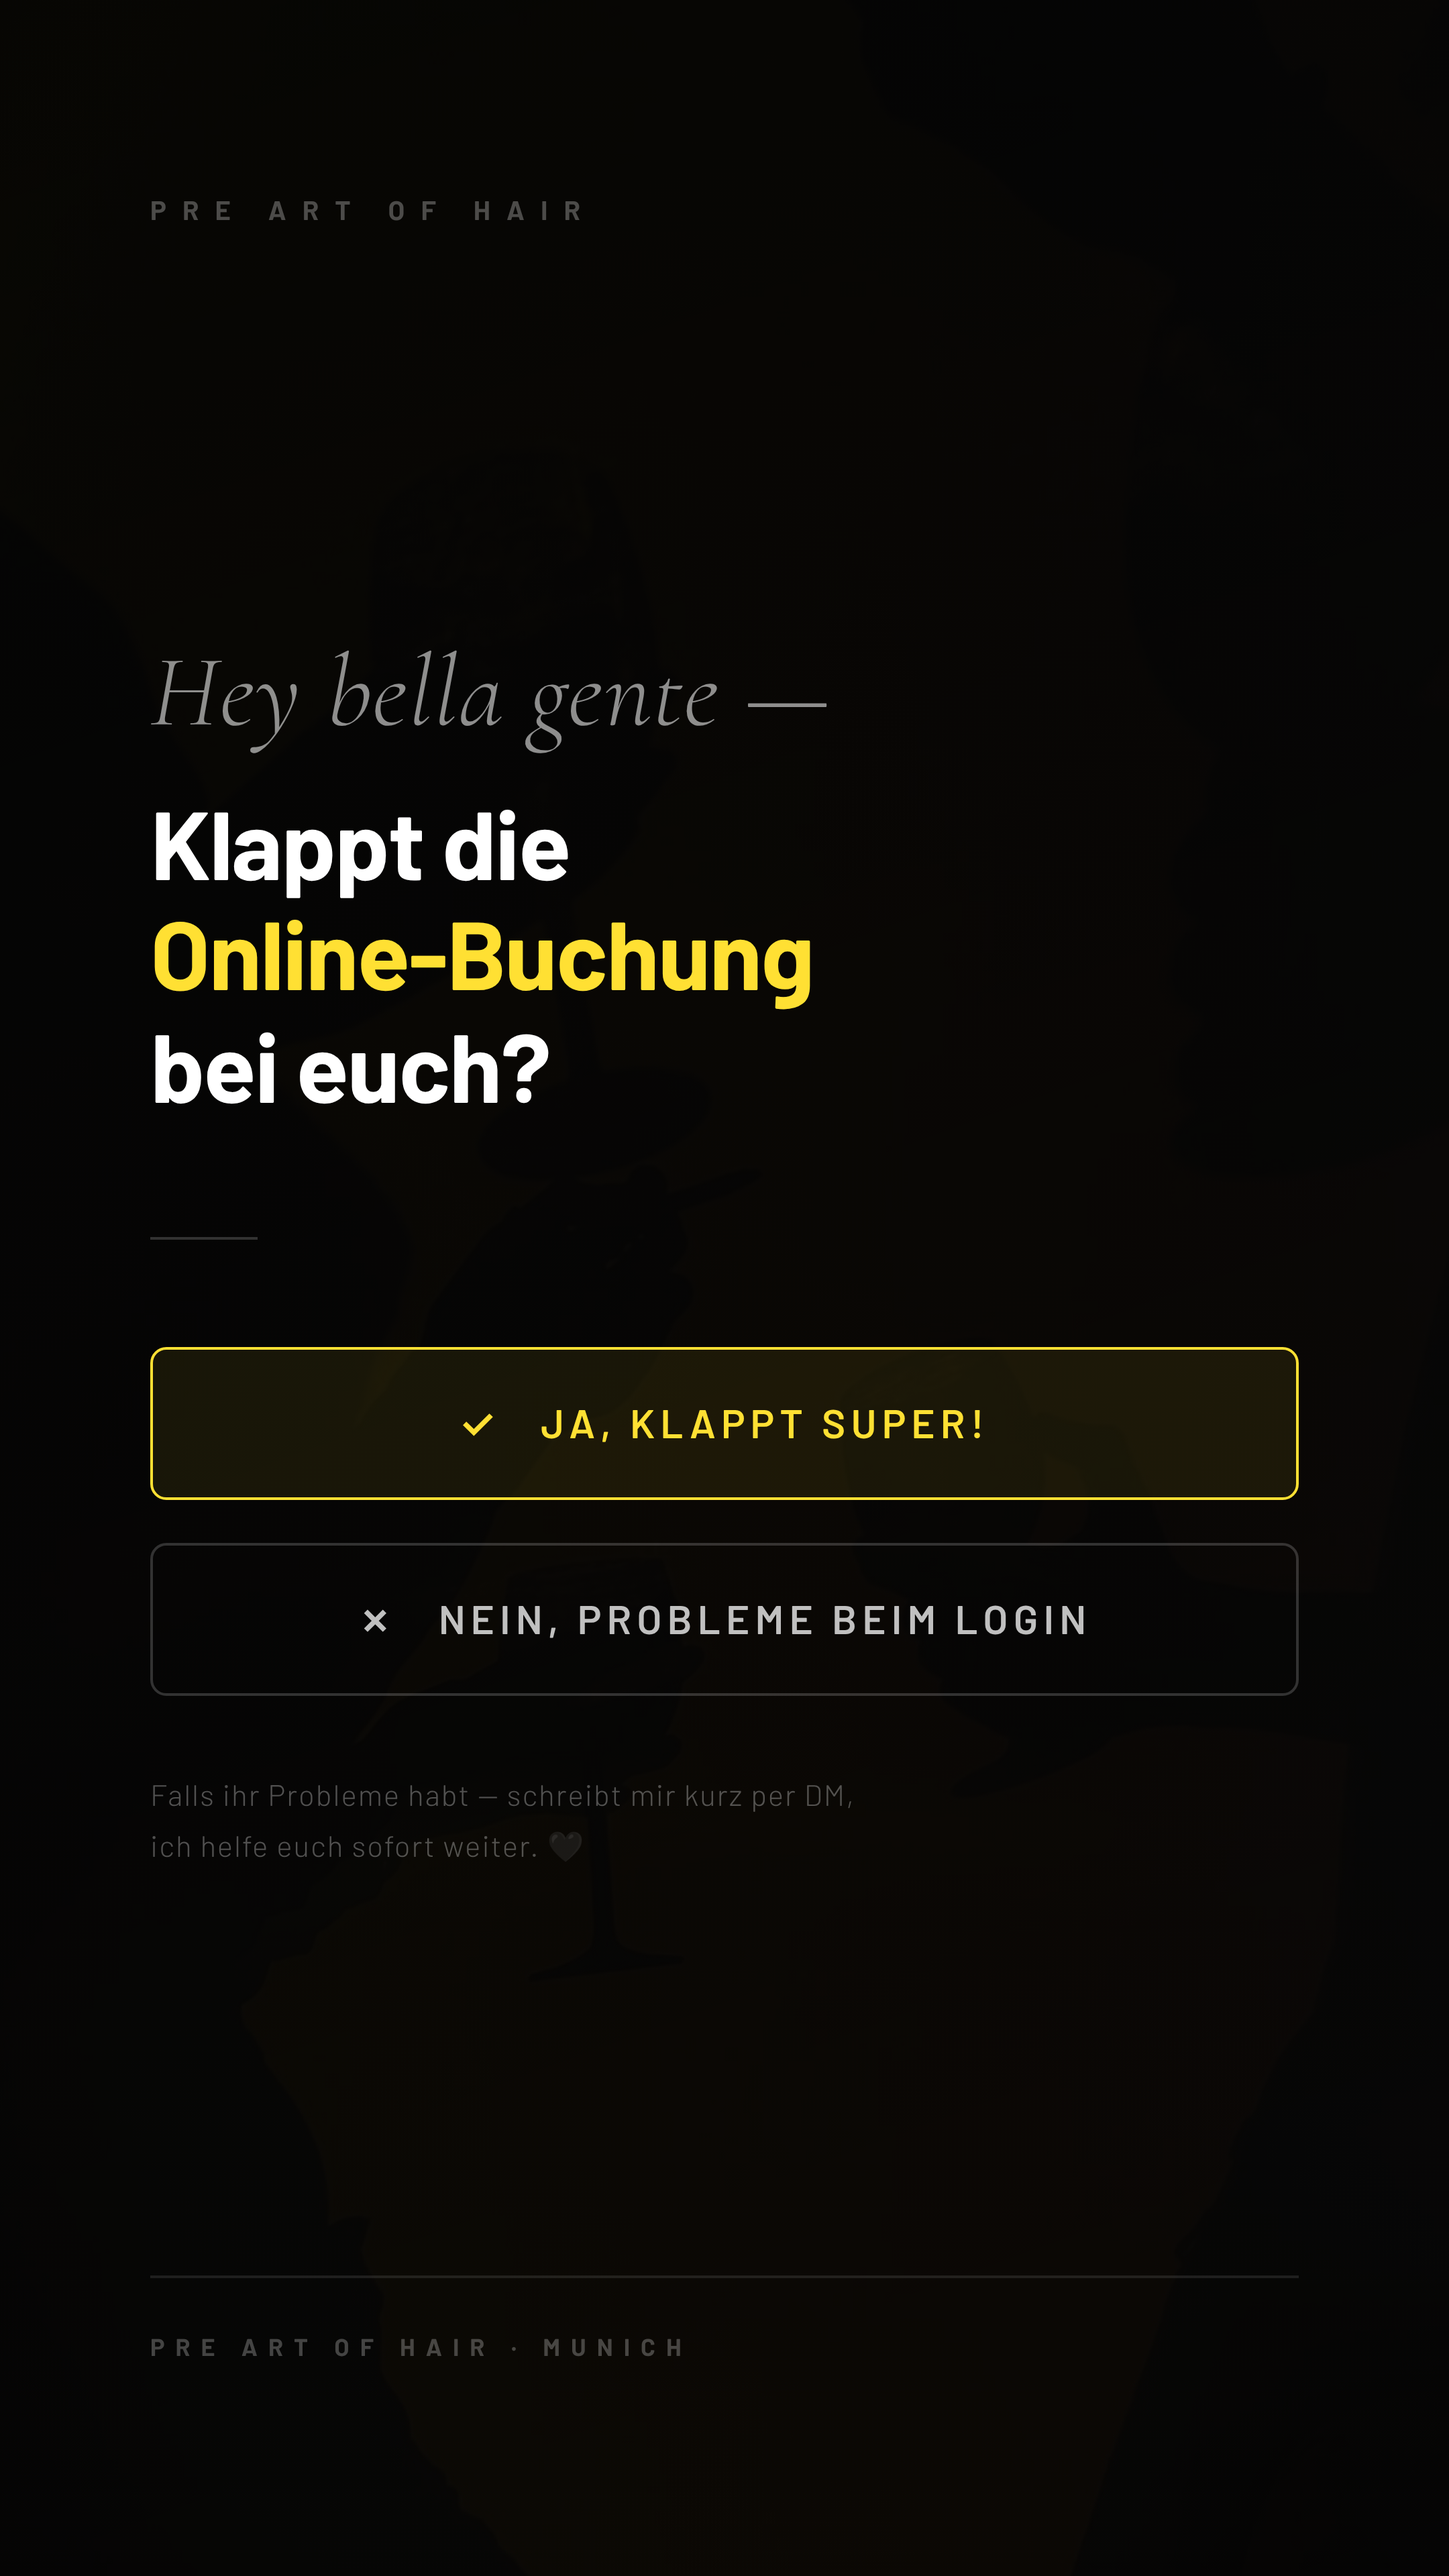
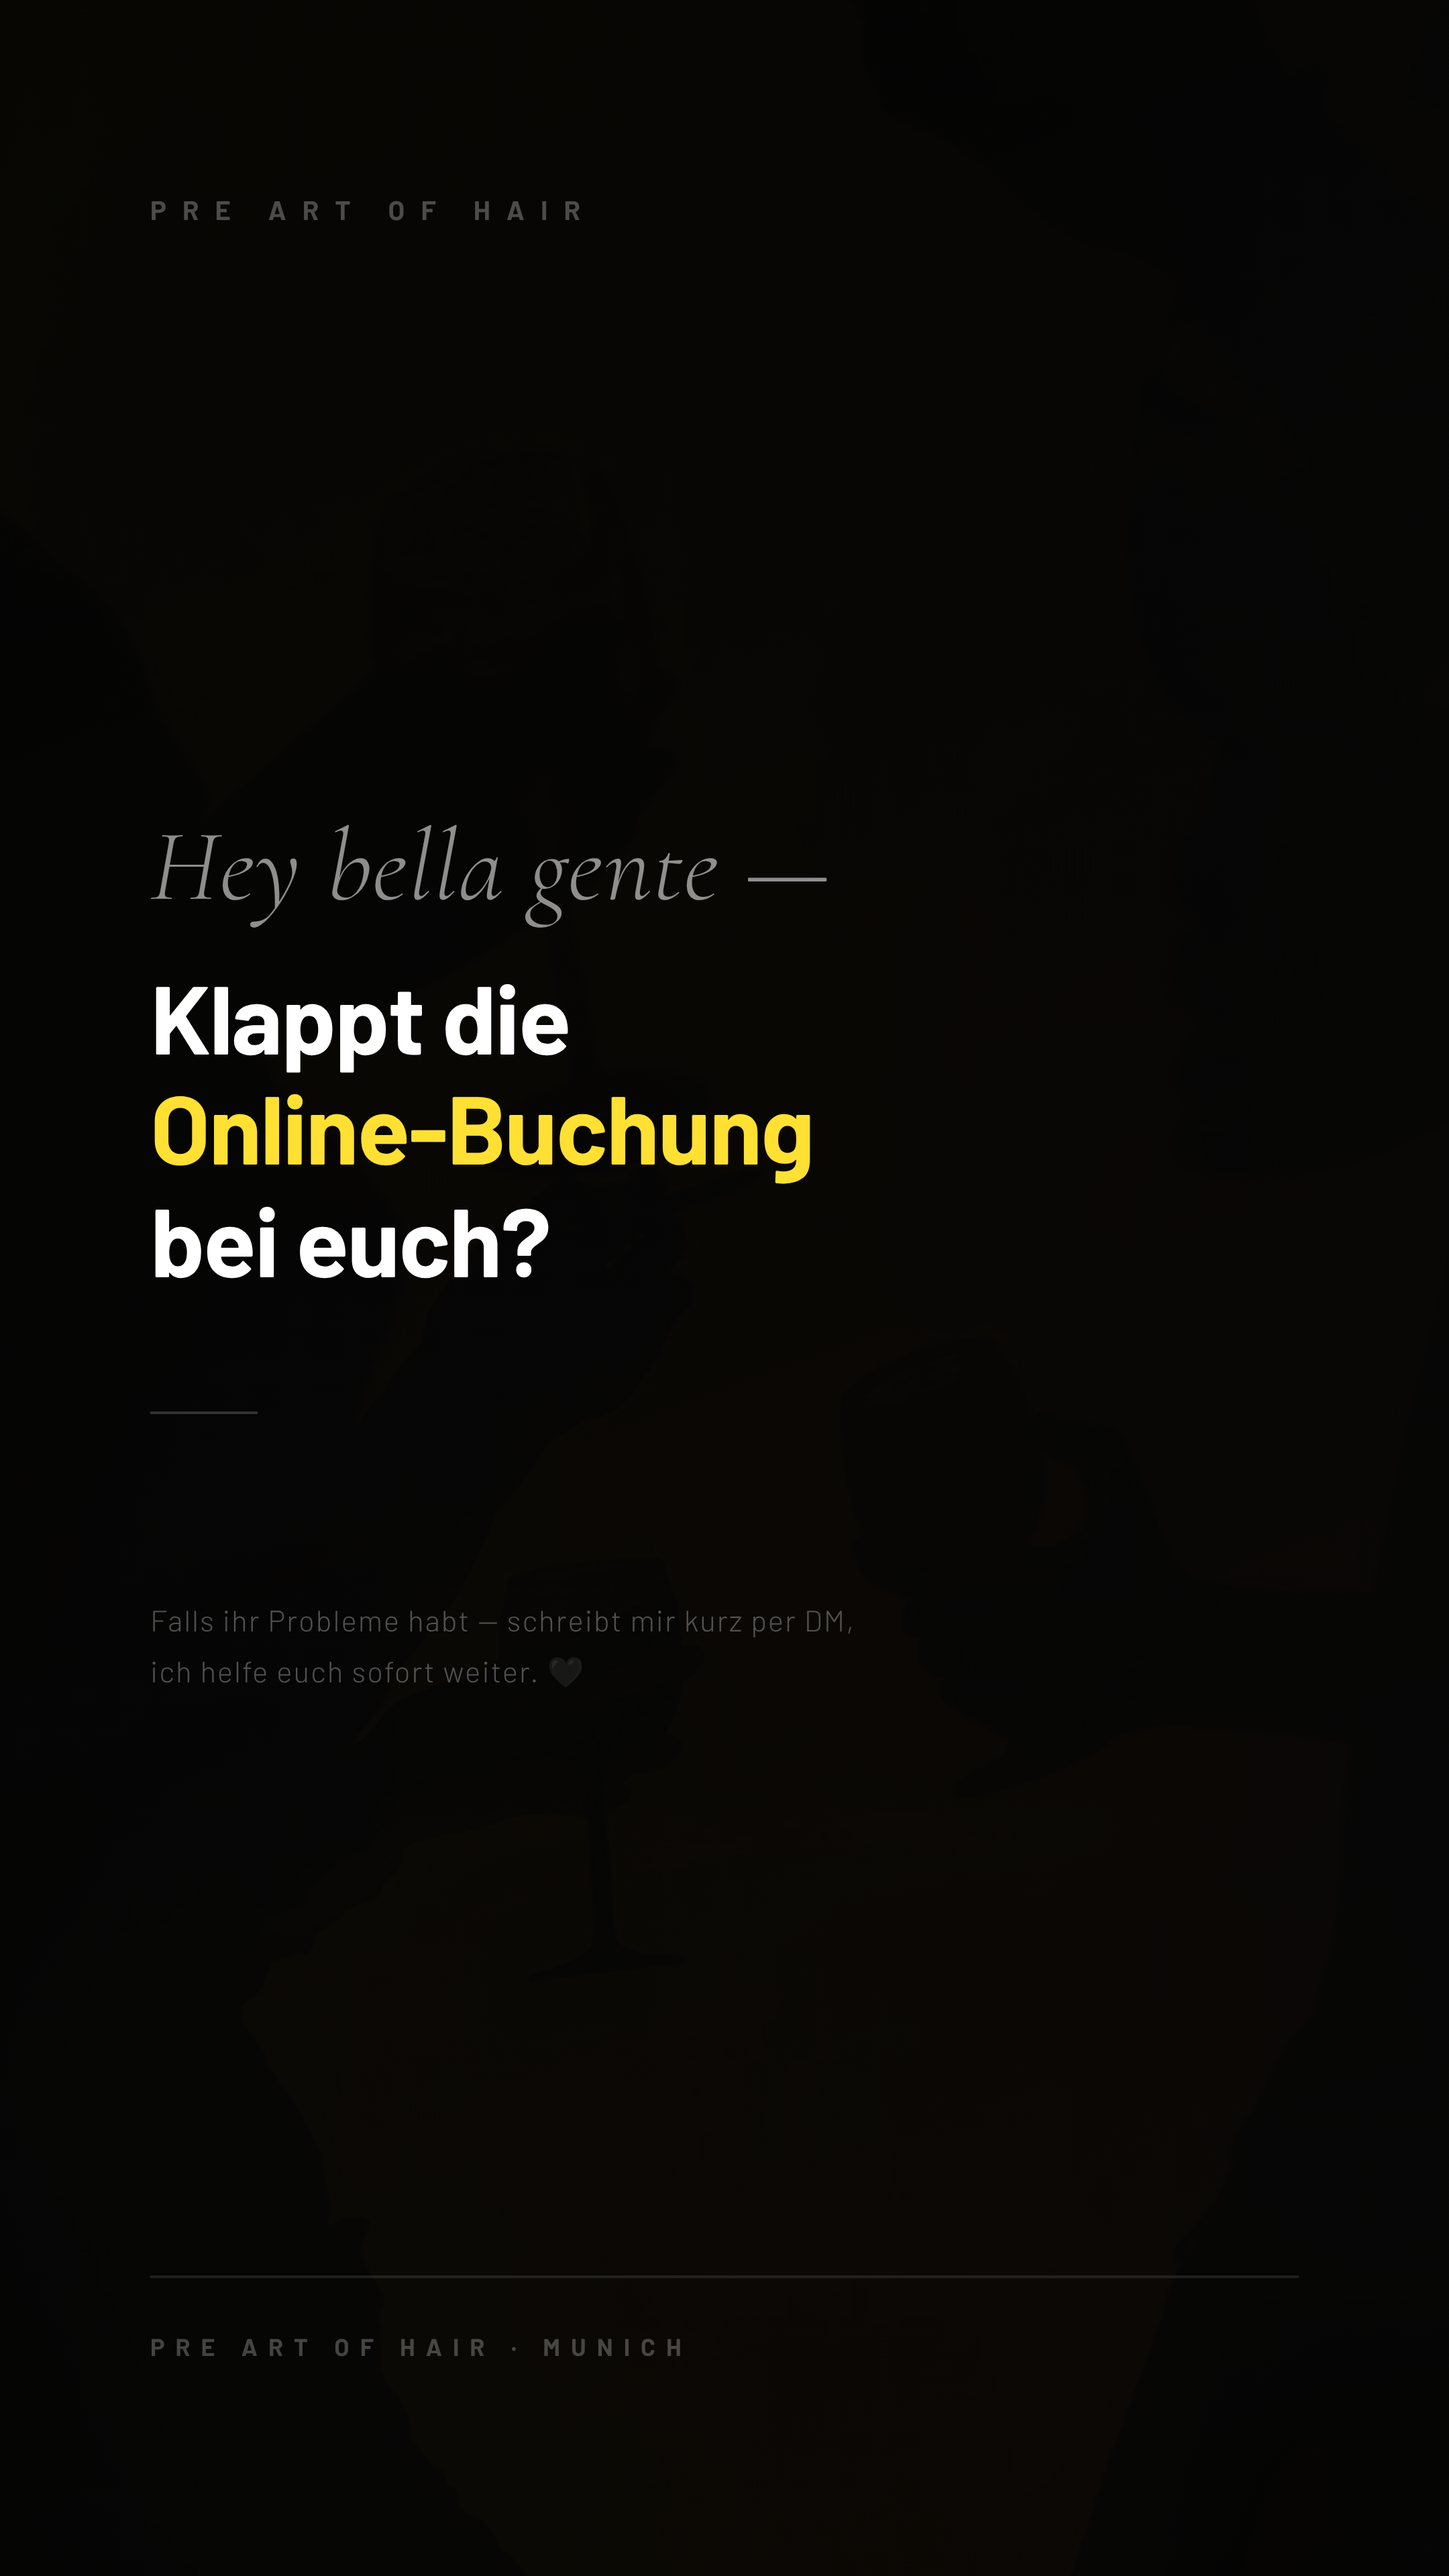
Umfrage story: Poll-Boxen entfernt, Sticker kommt in Instagram
Claude-Session: https://claude.ai/code/session_01BaC8m9wAmbtKccXQSCmnYc

diff --git a/story-umfrage-buchung.html b/story-umfrage-buchung.html
@@ -151,14 +151,6 @@
           bei euch?
         </div>
         <div class="rule"></div>
-        <div class="poll">
-          <div class="option yes">
-            <div class="option-text">✓ &nbsp; Ja, klappt super!</div>
-          </div>
-          <div class="option">
-            <div class="option-text">✗ &nbsp; Nein, Probleme beim Login</div>
-          </div>
-        </div>
         <div class="note">
           Falls ihr Probleme habt — schreibt mir kurz per DM,<br>ich helfe euch sofort weiter. 🖤
         </div>
